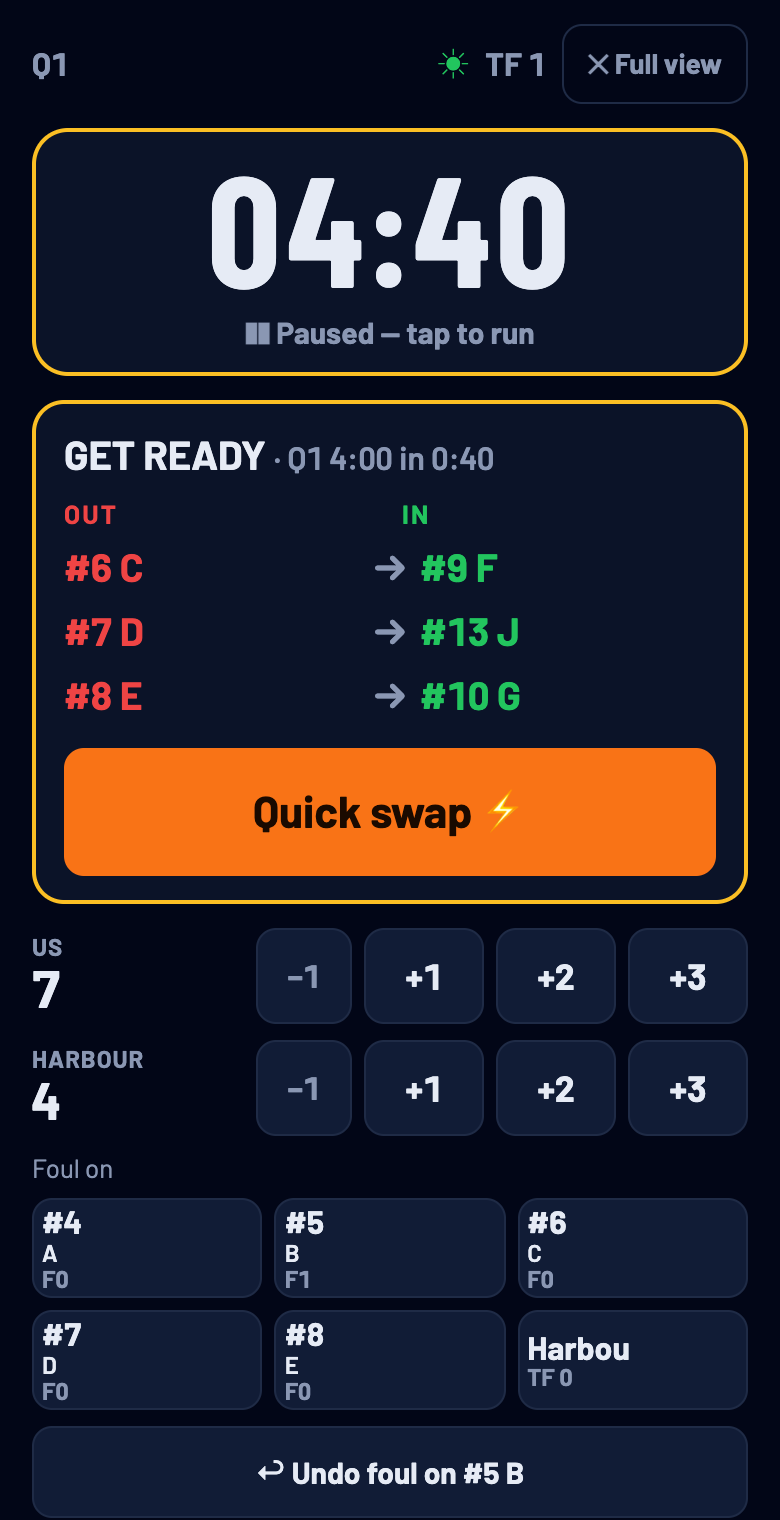
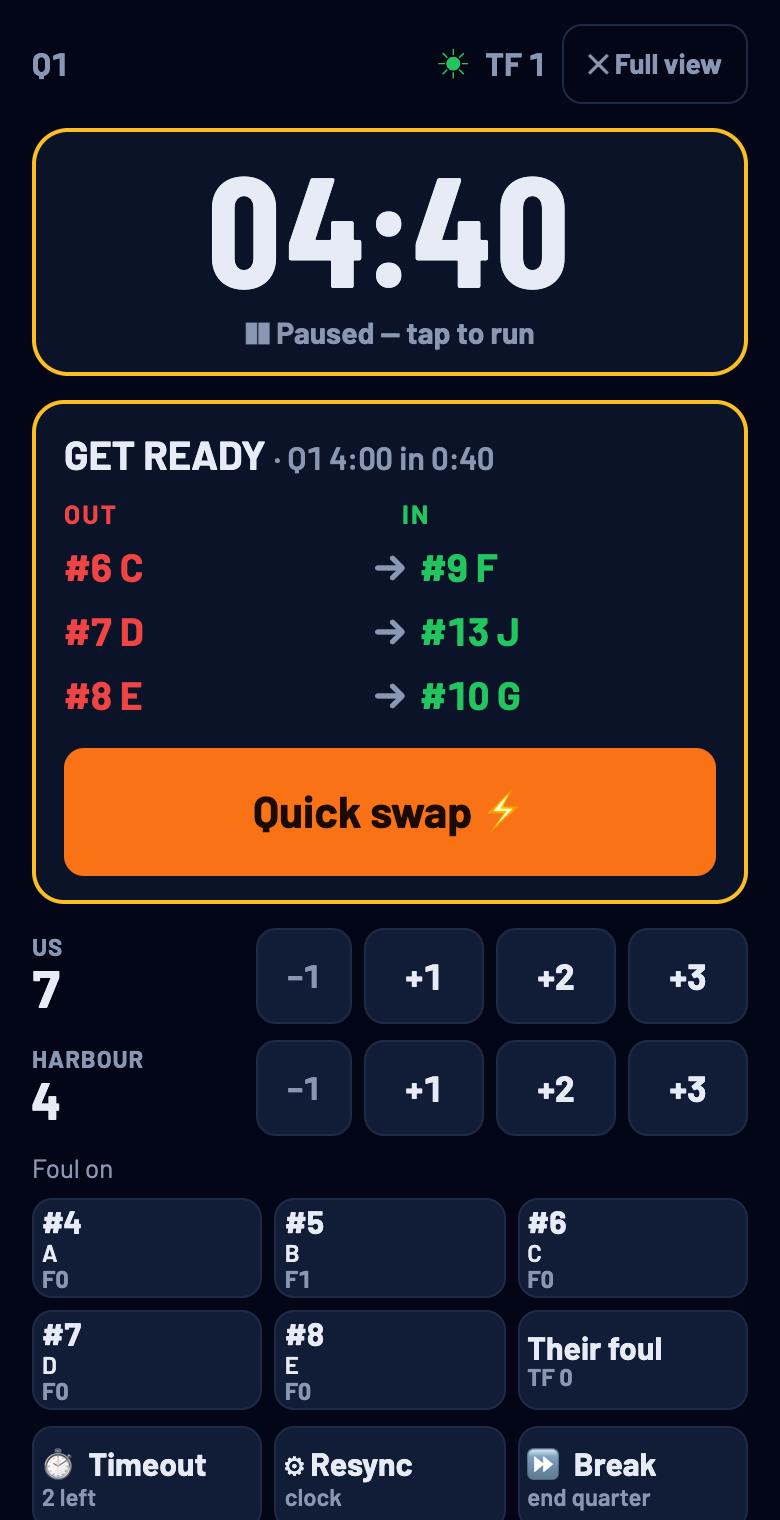
v2.19.0: match-day limit, their fouls on Live, glance timeout/resync, shift hint

Changed region(s): [[0.0308, 0.9276, 0.9846, 1.0], [0.6769, 0.8658, 0.8615, 0.8967]]

diff --git a/index.html b/index.html
@@ -212,6 +212,9 @@ table.pmu th,table.pmu td{padding:6px 5px;font-size:13px}
 .gfl>.muted{grid-column:1/-1}
 .gf{min-height:48px;display:flex;flex-direction:column;justify-content:center;gap:0;font-weight:800;font-size:16px;padding:2px 4px;line-height:1.1}
 .gf span{font-size:12px;font-weight:700;color:var(--muted)}
+.gtools{display:grid;grid-template-columns:repeat(3,1fr);gap:6px}
+.gtools .btn{min-height:52px;display:flex;flex-direction:column;justify-content:center;font-weight:800;font-size:16px;padding:2px 4px;line-height:1.15}
+.gtools .btn span{font-size:12px;font-weight:600;color:var(--muted)}
 .gf em{font-style:normal;font-size:12px;font-weight:600;max-width:100%;overflow:hidden;text-overflow:ellipsis;white-space:nowrap}
 .gf b{font-size:16px}
 .gf.warn{border-color:var(--warn)}.gf.warn span{color:var(--warn)}.gf.bad{border-color:var(--bad)}.gf.bad span{color:var(--bad)}
@@ -220,7 +223,8 @@ table.pmu th,table.pmu td{padding:6px 5px;font-size:13px}
 .whog{display:grid;grid-template-columns:repeat(3,1fr);gap:6px;margin-top:6px}.whog .btn{min-height:44px;padding:4px;font-size:14px;overflow:hidden;text-overflow:ellipsis;white-space:nowrap}
 .gdl{display:flex;flex-direction:column;gap:6px;max-height:52vh;overflow:auto}
 .gdr{display:grid;grid-template-columns:1fr 52px;gap:6px}.gdr .gdh{text-align:left;justify-content:flex-start;min-height:46px}
-.gdr .gdh[aria-pressed="true"]{border-color:var(--go)}.gdr.off .gdh{opacity:.55;text-decoration:line-through}
+.gdr .gdh[aria-pressed="true"]{border-color:var(--go)}.gdr.off .gdh{opacity:.55}.gdr .gdh s{text-decoration:none}.gdr.off .gdh s{text-decoration:line-through}
+.gdr .gso{margin-left:auto;padding-left:6px;white-space:nowrap}.gdr .gdwhy{font-size:11px;line-height:1.1;padding:0 2px}
 .htc{border:1px solid var(--line);border-radius:12px;padding:10px;margin:8px 0;background:var(--panel)}.htr{margin:4px 0;line-height:1.5}
 .gundo{min-height:46px;font-size:15px}
 .barkey{display:flex;flex-wrap:wrap;gap:4px 10px;margin-top:6px}.barkey i{display:inline-block;width:10px;height:6px;border-radius:3px;margin-right:4px;vertical-align:middle}
@@ -315,10 +319,10 @@ const TIERNAME={1:'Core / closers',2:'Main rotation',3:'Development',4:'Emerging
 /*SEED-START*/
 const SEED=[[4,'Player A',1],[5,'Player B',1],[6,'Player C',1],[7,'Player D',1],[8,'Player E',2],[9,'Player F',2],[10,'Player G',2],[11,'Player H',2],[12,'Player I',3],[13,'Player J',4],[14,'Player K',4],[15,'Player L',4]];
 const SEED_STARTERS=[4,5,6,7,8],SEED_CLOSERS=[4,5,6,7,8],SEED_BH=[4,5,8,13],SEED_OUT=[];
-const TEAM_DEFAULT={teamName:"Us",teamFull:"My Team U16"};
+const TEAM_DEFAULT={teamName:"Us",teamFull:"My Team"};
 const APP_NAME="Rotation Station",ABOUT={tip:"https://ko-fi.com/rotationstation",tipLabel:"Buy me a coffee",contact:"",site:"https://kramkroc.github.io/rotation-station/"};
 /*SEED-END*/
-const DEF_CFG={tierMins:{1:20,2:15,3:10,4:6},quarterMins:8,shiftLength:4,strongFloor:3,closerLockSeconds:240,otLengthMins:4,lockOT:true,hotBonusMode:false,hotBonusMins:3,devFloorMins:4,coldTrimMins:2,miniSubs:1,readySecs:60,onTimeSecs:45,restMaxMins:8,foulAware:'gentle',spreadLow:true,t1Floor:2,catchUp:2,haptics:'strong',flash:true,maxSubs:3,maxSubsBreaks:true,bhFloor:1,sound:'auto',...TEAM_DEFAULT};
+const DEF_CFG={tierMins:{1:20,2:15,3:10,4:6},quarterMins:8,shiftLength:4,panelMax:12,strongFloor:3,closerLockSeconds:240,otLengthMins:4,lockOT:true,hotBonusMode:false,hotBonusMins:3,devFloorMins:4,coldTrimMins:2,miniSubs:1,readySecs:60,onTimeSecs:45,restMaxMins:8,foulAware:'gentle',spreadLow:true,t1Floor:2,catchUp:2,haptics:'strong',flash:true,maxSubs:3,maxSubsBreaks:true,bhFloor:1,sound:'auto',...TEAM_DEFAULT};
 const today=()=>{const d=new Date();return String(d.getDate()).padStart(2,'0')+'/'+String(d.getMonth()+1).padStart(2,'0')+'/'+d.getFullYear()};
 const blankStat=()=>({playedSeconds:0,periodSplit:[],fouls:0,consecutiveSeconds:0,fouledOut:false});
 
@@ -457,6 +461,19 @@ function coreWarn(){
 }
 
 /* ---------- §2.3 blocks + solver (advisory) ---------- */
+// where the planned changes fall in L seconds of play: every step seconds, a stub under half a step folds into the shift before
+function shiftCuts(L,step){const cuts=[];for(let s=0;s<L;s+=step)cuts.push(s);if(cuts.length>1&&L-cuts[cuts.length-1]<step/2)cuts.pop();return cuts}
+// Setup hint: what the chosen shift means for this quarter length (the clock counts down, so changes are given as time left)
+function shiftHint(qm,sl){
+  const L=qm*60,split=x=>{const c=shiftCuts(L,x*60);return {c,parts:c.map((s0,i)=>((i+1<c.length?c[i+1]:L)-s0)/60)}};
+  const {c,parts}=split(sl),n=c.length-1,word=['no','one','two','three','four','five'][n]||String(n);
+  let t=`How often the planned changes come. With ${qm}-min quarters that's `+(n?`${word} change${n>1?'s':''} a quarter, at ${c.slice(1).map(s0=>mmssShort(L-s0)).join(', ')} left (${parts.join(' + ')} min), plus the quarter breaks.`:'changes only at the quarter breaks.');
+  const r=(L%(sl*60))/60;if(n&&r&&r<sl/2)t+=` The last ${r} min joins the shift before rather than being a ${r}-min shift of its own.`;
+  t+=n<=2?' Easy to run from the bench.':' Busier to run from the bench.';
+  const even=x=>{const q=split(x);return q.parts.every(v=>v===q.parts[0])&&q.c.length-1<=2};
+  if(!even(sl)){const b=[4,3,2].find(x=>x!==sl&&even(x));if(b)t+=` ${b} min would split the quarter evenly.`}
+  return t;
+}
 function baseBlocks(){
   const out=[],step=S.config.shiftLength*60;let abs=0;
   S.periods.forEach((L,pi)=>{
@@ -464,8 +481,7 @@ function baseBlocks(){
     if(p>4){out.push({p,s:0,e:L,dur:L,abs0:abs,abs1:abs+L,key:p+'-0'})}
     else{
       const lockAt=p===4&&S.config.closerLockSeconds>0?Math.max(0,L-S.config.closerLockSeconds):L;
-      const cuts=[];for(let s=0;s<lockAt;s+=step)cuts.push(s);
-      if(cuts.length>1&&lockAt-cuts[cuts.length-1]<step/2)cuts.pop();   // fold a stub shift into the one before
+      const cuts=shiftCuts(lockAt,step);
       if(lockAt<L)cuts.push(lockAt);
       // a coach can move a change earlier/later; the block keeps its original key so plans and pins survive the move
       const mv=S.moves||{},adj=cuts.slice();
@@ -928,7 +944,8 @@ function seasonSave(se){try{localStorage.setItem(SEASON_KEY,JSON.stringify(se))}
 function gameRecord(){
   const T=targets(),PM=plusMinus().pm,PB=pointsBy();
   return {id:S.match.id,date:S.match.date,opp:S.match.opp||'',practice:!!S.match.practice,us:S.score.us,them:S.score.them,scored:S.score.ev.length>0,blocks:S.config.shiftLength,app:APP_VERSION,
-    players:S.roster.filter(p=>p.active||played(p.id)>0).map(p=>({num:p.num,name:p.name,tier:p.tier,mins:Math.round(played(p.id)/6)/10,tgt:T[p.id]||0,fouls:st(p.id).fouls,pm:PM[p.id]||0,pts:PB[p.id]||0}))};
+    players:S.roster.filter(p=>p.active||played(p.id)>0).map(p=>({num:p.num,name:p.name,tier:p.tier,mins:Math.round(played(p.id)/6)/10,tgt:T[p.id]||0,fouls:st(p.id).fouls,pm:PM[p.id]||0,pts:PB[p.id]||0})),
+    np:S.roster.filter(p=>p.np&&!p.active&&played(p.id)===0).map(p=>({num:p.num,name:p.name,tier:p.tier}))};
 }
 function archiveGame(){const se=seasonLoad(),rec=gameRecord(),i=se.games.findIndex(g=>g.id===rec.id);if(i>=0)se.games[i]=rec;else se.games.push(rec);seasonSave(se);S.archived=true;save()}
 function removeSeasonGame(id){const se=seasonLoad();se.games=se.games.filter(g=>g.id!==id);seasonSave(se);if(id===S.match.id)S.archived=false;save();render()}
@@ -993,7 +1010,9 @@ function applySetup(text){
 }
 function seasonTable(){
   const se=seasonLoad(),g=se.games;if(!g.length)return null;
-  const byNum={};g.forEach((gm,gi)=>gm.players.forEach(p=>{const r=byNum[p.num]||(byNum[p.num]={num:p.num,name:p.name,tier:p.tier,cells:Array(g.length).fill(null),tot:0,tgt:0,gp:0,dt:0,gt:0,pm:0,pmg:0,pts:0});r.name=p.name;if(typeof p.pm==='number'){r.pm+=p.pm;r.pmg++}r.pts+=+p.pts||0;r.tier=p.tier;r.cells[gi]=p.mins;r.tot+=p.mins;r.tgt+=p.tgt||0;if(p.mins>0)r.gp++;
+  const byNum={},row=p=>byNum[p.num]||(byNum[p.num]={num:p.num,name:p.name,tier:p.tier,cells:Array(g.length).fill(null),npc:Array(g.length).fill(false),np:0,tot:0,tgt:0,gp:0,dt:0,gt:0,pm:0,pmg:0,pts:0});
+  g.forEach((gm,gi)=>(gm.np||[]).forEach(p=>{const r=row(p);r.npc[gi]=true;r.np++}));
+  g.forEach((gm,gi)=>gm.players.forEach(p=>{const r=row(p);r.name=p.name;if(typeof p.pm==='number'){r.pm+=p.pm;r.pmg++}r.pts+=+p.pts||0;r.tier=p.tier;r.cells[gi]=p.mins;r.tot+=p.mins;r.tgt+=p.tgt||0;if(p.mins>0)r.gp++;
     if(p.tgt>0){r.dt+=p.mins-p.tgt;r.gt++}}));   // fairness: minutes against his target, only in games that had one
   const rows=Object.values(byNum).sort((a,b)=>a.tier-b.tier||b.tot-a.tot);
   rows.forEach(r=>{const avg=r.gt?r.dt/r.gt:0;r.fair=!r.gt?'':avg< -2.5?'way':avg< -1?'short':avg>1?'over':'ok'});
@@ -1002,8 +1021,8 @@ function seasonTable(){
 }
 function seasonCsv(){
   const t=seasonTable();if(!t)return '';
-  let out='Jersey,Name,Tier,'+t.games.map(x=>'"'+x.date+(x.opp?' vs '+x.opp:'')+'"').join(',')+',Total_Mins,Games,Avg_Mins,Target_Total,Vs_Target\n';
-  t.rows.forEach(r=>{out+=[r.num,'"'+r.name.replace(/"/g,'""')+'"',r.tier,...r.cells.map(c=>c==null?'':c),m1(r.tot),r.gp,r.gp?m1(r.tot/r.gp):'',m1(r.tgt),r.gt?m1(r.dt):''].join(',')+'\n'});
+  let out='Jersey,Name,Tier,'+t.games.map(x=>'"'+x.date+(x.opp?' vs '+x.opp:'')+'"').join(',')+',Total_Mins,Games,Avg_Mins,Target_Total,Vs_Target,Not_Picked\n';
+  t.rows.forEach(r=>{out+=[r.num,'"'+r.name.replace(/"/g,'""')+'"',r.tier,...r.cells.map((c,gi)=>c==null?(r.npc[gi]?'NP':''):c),m1(r.tot),r.gp,r.gp?m1(r.tot/r.gp):'',m1(r.tgt),r.gt?m1(r.dt):'',r.np].join(',')+'\n'});
   return out;
 }
 
@@ -1060,7 +1079,8 @@ function removePlayer(id){
 function undoFoul(id){const u=S.undo[S.undo.length-1];if(u&&u.type==='foul'&&u.id===id&&u.delta>0)undo();else addFoul(id,-1);toast('Foul removed — '+tag(id)+' now F:'+st(id).fouls)}
 const tfKey=()=>Math.min(S.period,4);   // FIBA: overtime fouls count with Q4
 const tfUs=()=>S.tf[tfKey()]||0,tfThem=()=>S.tfThem[tfKey()]||0;
-function addTeamFoulThem(d){const k=tfKey();S.tfThem[k]=Math.max(0,(S.tfThem[k]||0)+d);log(clockLabel()+' — '+oppName()+' team fouls '+S.tfThem[k]);save();render()}
+function addTeamFoulThem(d){const k=tfKey(),was=S.tfThem[k]||0;S.tfThem[k]=Math.max(0,was+d);if(S.tfThem[k]===was)return;S.undo.push({type:'tfthem',k,d:S.tfThem[k]-was});log(clockLabel()+' — '+oppName()+' team fouls '+S.tfThem[k]);save();render();
+  const n=S.tfThem[k];toast(oppName()+' team fouls '+n+(d<0?'':n===4?' · next one = our free throws':n>=5?' · in the penalty, attack the rim':''))}
 const foulBand=id=>{const s=st(id);return s.fouledOut?9:s.fouls>=4?4:foulRisk(id)?2:0};
 function addFoul(id,delta){
   const s=st(id);if(delta<0&&s.fouls===0)return;
@@ -1089,6 +1109,7 @@ function undoLabel(u){
   if(u.type==='score')return (u.side==='us'?tn():oppName())+' +'+u.pts;
   if(u.type==='timeout')return (u.side==='us'?'our':oppName()+'’s')+' timeout';
   if(u.type==='mins')return 'minutes fix on '+nm(u.id);
+  if(u.type==='tfthem')return oppName()+' team foul'+(u.d<0?' removal':'');
   if(u.type==='scorefix')return (u.side==='us'?tn():oppName())+' −1';
   return 'last action';
 }
@@ -1100,6 +1121,7 @@ function undo(){
   if(u.type==='single'){S.onCourtIds=u.prevOn;st(u.inId).consecutiveSeconds=u.prevConsec;log(clockLabel()+' — UNDO: '+tag(u.inId)+' IN'+(u.outId?' for '+tag(u.outId):'')+' retracted')}
   else if(u.type==='mass'){S.onCourtIds=u.prevOn;Object.entries(u.prevConsec).forEach(([id,c])=>st(id).consecutiveSeconds=c);log(clockLabel()+' — UNDO: quick swap retracted (IN '+u.ins.map(id=>'#'+P(id).num).join(' ')+' • OUT '+u.outs.map(id=>'#'+P(id).num).join(' ')+' reversed)')}
   else if(u.type==='score'){S.score[u.side]-=u.pts;S.score.ev.pop();log(clockLabel()+' — UNDO: '+(u.side==='us'?tn():oppName())+' +'+u.pts+' removed ('+S.score.us+'–'+S.score.them+')')}
+  else if(u.type==='tfthem'){S.tfThem[u.k]=Math.max(0,(S.tfThem[u.k]||0)-u.d);log(clockLabel()+' — UNDO: '+oppName()+' team fouls '+S.tfThem[u.k])}
   else if(u.type==='timeout'){S.tos.pop();log(clockLabel()+' — UNDO: timeout removed')}
   else if(u.type==='scorefix'){const ev=S.score.ev;if(u.prev.pts>1&&ev[u.i]&&ev[u.i].n===u.prev.n)ev[u.i].pts=u.prev.pts;else ev.splice(u.i,0,u.prev);S.score[u.side]++;log(clockLabel()+' — UNDO: score fix ('+S.score.us+'–'+S.score.them+')')}
   else if(u.type==='mins'){const s=st(u.id);s.playedSeconds=u.before;s.periodSplit=u.split;log(clockLabel()+' — UNDO: minutes fix on '+tag(u.id)+' (back to '+mmss(u.before)+')')}
@@ -1108,11 +1130,16 @@ function undo(){
   toast('Undone: '+what+(u.type==='mass'?' — all '+u.ins.length+' players back':''));
 }
 function setActive(id,on){
-  const p=P(id);if(p.active===on)return;p.active=on;
+  const p=P(id);if(p.active===on)return;p.active=on;p.np=!on&&!S.started&&panelMax()>0&&S.roster.length>panelMax();
   if(!on){S.onCourtIds=S.onCourtIds.filter(x=>x!==id);p.hot=false;p.hotUntil=null;p.cold=false;delete S.adj['hot:'+id];delete S.adj['cold:'+id]}
   if(S.started)log(clockLabel()+' — RE-PLAN: '+tag(id)+(on?' added (late arrival)':' unavailable / injured')+', minutes redistributed','rp');
   replan();save();render();
 }
+
+// match-day limit: a squad bigger than the panel leaves some out. "Not picked" is kept apart from "not here" so the season shows who sat out
+const panelMax=()=>+S.config.panelMax||0,panelOver=()=>panelMax()>0&&availList().length>panelMax();
+function setNotPicked(id,on){const p=P(id);if(!p||p.active||S.started)return;p.np=!!on;save();render()}
+function satOut(){const n={};seasonLoad().games.forEach(g=>(g.np||[]).forEach(x=>{n[x.num]=(n[x.num]||0)+1}));return n}
 
 /* ---------- §2.5 hot / cold ---------- */
 function hotDebits(id){
@@ -1187,6 +1214,7 @@ function waText(){
     const qs=S.periods.map((_,i)=>mt((r.s.periodSplit[i]||0)/60)).join('/');
     t+='• #'+r.p.num+' '+r.p.name+' (T'+r.p.tier+'): '+m1(r.a)+'m / tgt '+m1(r.T)+'m | Qs ['+qs+'] | F:'+r.s.fouls+(r.s.fouledOut?' (OUT)':'')+'\n';
   });
+  {const np=S.roster.filter(p=>p.np&&!p.active&&played(p.id)===0);if(np.length)t+='🪑 Not picked: '+np.map(p=>'#'+p.num+' '+p.name).join(', ')+'\n'}
   const tfq=S.periods.slice(0,4).map((_,i)=>S.tf[i+1]||0);if(tfq.some(x=>x))t+='🟨 Team fouls by quarter: '+tfq.join('/')+(S.periods.length>4?' (OT counts with Q4)':'')+'\n';
   return t+'------------------------------------\nLogged via '+APP_NAME;
 }
@@ -1270,7 +1298,7 @@ function viewGlance(){
   }
   return `<div class="glance">
     <div class="gtop"><span>${qLabel(S.period)}</span><span class="sp"></span>${S.started&&!S.finished?(ui.awake!=='none'?'<span class="trk ok">☀</span>':'<button class="chip warn" data-act="sheet:awake">⚠ May sleep</button>'):''}<span class="${tfUs()>=5?'trk way':tfUs()===4?'trk short':''}">TF ${tfUs()}</span><button class="btn sm ghost" data-act="glance:0" aria-label="Back to the full screen">✕ Full view</button></div>
-    <button class="gclock ${running?'run':'stop'}" data-act="clock" aria-label="Game clock"><div class="digits">${mmss(S.clockSeconds)}</div><div class="state">${st0}</div></button>
+    <button class="gclock ${running?'run':'stop'}" data-act="clock" data-lp="resync" aria-label="Game clock"><div class="digits">${mmss(S.clockSeconds)}</div><div class="state">${st0}</div></button>
     ${(()=>{const r=S.started&&!S.finished?runAgainst():null;return r?`<div class="gwarn">${esc(oppName())} on a ${r.pts}–0 run (${r.n} straight). Timeout at the next dead ball? <button class="btn sm" data-act="to:us" ${toLeft('us')>0?'':'disabled'}>⏱ Call timeout (${toLeft('us')} left)</button></div>`:''})()}
     ${fd?`<div class="gwarn">${esc(shortName(P(fd.id)))} is on 4 fouls${fd.rep?` — <button class="btn sm" data-act="fdsub:${fd.id}:${fd.rep}">Sub ${esc(shortName(P(fd.rep)))} in</button>`:''}</div>`:''}
     ${next}
@@ -1278,7 +1306,8 @@ function viewGlance(){
       <div class="gsrow"><span class="gsl"><span>${esc(tn())}</span><b>${S.score.us}</b></span><button class="btn gm" data-act="scm:us" ${S.score.us?'':'disabled'} aria-label="${esc(tn())} minus 1">−1</button><button class="btn" data-act="gsc:us:1">+1</button><button class="btn" data-act="gsc:us:2">+2</button><button class="btn" data-act="gsc:us:3">+3</button></div>
       <div class="gsrow"><span class="gsl"><span>${esc(oppName())}</span><b>${S.score.them}</b></span><button class="btn gm" data-act="scm:them" ${S.score.them?'':'disabled'} aria-label="${esc(oppName())} minus 1">−1</button><button class="btn" data-act="gsc:them:1">+1</button><button class="btn" data-act="gsc:them:2">+2</button><button class="btn" data-act="gsc:them:3">+3</button></div>
       ${scorerStrip()}
-      <div class="gfl"><span class="muted small">Foul on</span>${S.onCourtIds.map(id=>{const f=st(id).fouls;return `<button class="btn gf ${f>=4?'bad':f>=3?'warn':''}" data-act="foul:${id}" data-lp="foulm:${id}"><b>#${P(id).num}</b><em>${esc(String(P(id).name).split(/\s+/).slice(-1)[0])}</em><span>F${f}</span></button>`}).join('')}<button class="btn gf" data-act="tft:1">${esc(oppName().slice(0,6))}<span>TF ${tfThem()}</span></button></div>
+      <div class="gfl"><span class="muted small">Foul on</span>${S.onCourtIds.map(id=>{const f=st(id).fouls;return `<button class="btn gf ${f>=4?'bad':f>=3?'warn':''}" data-act="foul:${id}" data-lp="foulm:${id}"><b>#${P(id).num}</b><em>${esc(String(P(id).name).split(/\s+/).slice(-1)[0])}</em><span>F${f}</span></button>`}).join('')}<button class="btn gf" data-act="tft:1" data-lp="tfm:1" aria-label="${esc(oppName())} foul, hold to take one off">Their foul<span>TF ${tfThem()}</span></button></div>
+      <div class="gtools"><button class="btn" data-act="sheet:to">⏱ Timeout<span>${toLeft('us')} left</span></button><button class="btn" data-act="resync">⚙ Resync<span>clock</span></button><button class="btn" data-act="break">⏩ Break<span>end quarter</span></button></div>
       <button class="btn gundo" data-act="undo" ${S.undo.length?'':'disabled'}>↩ Undo${S.undo.length?' '+esc(undoLabel()):''}</button></div>`:''}
     ${S.started&&!S.finished?'':'<button class="btn ghost gexit" data-act="glance:0">Back to the full screen</button>'}</div>`;
 }
@@ -1334,6 +1363,7 @@ function viewLive(){
   const run=S.started&&!S.finished?runAgainst():null,tl=toLeft('us'),l2=toLeftLast2('us');
   const scoreBar=`<div class="scorebar">
     <button class="sb" data-act="sheet:score" aria-label="Score"><span class="tm">${esc(tn())}</span><b>${S.score.us}</b><span class="dash">–</span><b>${S.score.them}</b><span class="tm">${esc(oppName())}</span></button>
+    <button class="btn tobtn" data-act="tft:1" data-lp="tfm:1" ${S.started&&!S.finished?'':'disabled'} aria-label="${esc(oppName())} foul, hold to take one off">Their foul <span class="muted small">TF ${tfThem()} · hold −1</span></button>
     <button class="btn tobtn" data-act="sheet:to" ${S.started&&!S.finished?'':'disabled'}>⏱ Timeout <span class="muted small">${tl} left${l2!=null?' · '+Math.min(tl,l2)+' in last 2:00':''}</span></button></div>`;
   return hdr+scoreBar+scorerStrip()+`
   ${ui.nudge===S.period&&!S.clockRunning&&!S.finished&&S.clockSeconds>=len()-0.5?`<div class="banner pause">⏱ The clock hasn't started this ${S.started?'quarter':'game'}, but you're logging scores or fouls. Start it now, then Resync to the table clock. <button class="btn sm" data-act="clock">▶ Start clock</button> <button class="btn sm ghost" data-act="resync">Resync</button></div>`:''}
@@ -1453,21 +1483,22 @@ function viewSetup(){
   return `<button class="btn pri" style="width:100%;margin:6px 0 10px" data-act="sheet:gameday">⚡ Game-day setup — who's here, starters, opponent</button>
   ${sec('match','Match',`${esc(tn())} v ${esc(S.match.opp||'?')} · ${esc(S.match.date||'')} · ${S.match.practice?'Practice':'Game'}`,`<div class="fields">
     <div class="field"><label for="tname">Our team — short name</label><input id="tname" class="inp" type="text" data-chg="cfgtxt:teamName" value="${esc(S.config.teamName||'')}" placeholder="e.g. Tigers"><span class="muted small">On the score bar and glance screen, where space is tight.</span></div>
-    <div class="field"><label for="tfull">Our team — full name</label><input id="tfull" class="inp" type="text" data-chg="cfgtxt:teamFull" value="${esc(S.config.teamFull||'')}" placeholder="e.g. Riverside Tigers U16"><span class="muted small">On printouts and WhatsApp summaries. Leave blank to use the short name.</span></div>
+    <div class="field"><label for="tfull">Our team — full name</label><input id="tfull" class="inp" type="text" data-chg="cfgtxt:teamFull" value="${esc(S.config.teamFull||'')}" placeholder="e.g. Riverside Tigers"><span class="muted small">On printouts and WhatsApp summaries. Leave blank to use the short name.</span></div>
     <div class="field"><label for="opp">Opponent</label><input id="opp" type="text" data-chg="opp" value="${esc(S.match.opp)}" placeholder="e.g. their club name"><span class="muted small">On the score bar, run alerts and summaries.</span></div>
     <div class="field"><label for="mdate">Date</label><input id="mdate" type="text" data-chg="date" value="${esc(S.match.date)}"><span class="muted small">On printouts and in the season table.</span></div>
     <div class="field"><label>Match type</label><div class="seg"><button data-act="practice:0" aria-pressed="${!S.match.practice}">Game</button><button data-act="practice:1" aria-pressed="${!!S.match.practice}">Practice</button></div><span class="muted small">Practice games aren't saved to the season. Starts as Game for every new match.</span></div>
   </div>`)}
-  ${sec('squad','Squad &amp; tiers',`${availList().length} here · starters ${nStart}/5 · closers ${nClose}/5`,`  <div class="status"><span class="chip ${nStart===5?'go':'warn'}">Starters ${nStart}/5</span><span class="chip ${nClose===5?'go':'warn'}">Closers ${nClose}/5</span><span class="chip acc">${availList().length} active</span></div>
+  ${sec('squad','Squad &amp; tiers',`${availList().length} here · starters ${nStart}/5 · closers ${nClose}/5`,`  <div class="status"><span class="chip ${nStart===5?'go':'warn'}">Starters ${nStart}/5</span><span class="chip ${nClose===5?'go':'warn'}">Closers ${nClose}/5</span><span class="chip ${panelOver()?'warn':'acc'}">${availList().length} active${panelOver()?' · limit '+panelMax():''}</span></div>
   <div class="tbl" style="margin-top:8px"><table><thead><tr><th>#</th><th>Name</th><th>Tier</th><th>Here</th><th>Start</th><th>Close</th><th>Ball</th><th>Target</th><th></th></tr></thead><tbody>${rows}</tbody></table></div>
   <div style="margin-top:8px"><button class="btn" data-act="addplayer">+ Add player</button></div>
+  <div class="field" style="margin-top:10px"><label>Match-day limit</label>${seg('panelMax',[0,10,12,15],c.panelMax,o=>o?String(o):'Off')}<span class="muted small">Most leagues allow 12 on the scoresheet. With a bigger squad, the game-day list counts who's picked, warns if it's too many, and records who sat out so you can rotate it fairly.</span></div>
   <p class="note">Set the rough minutes per tier below; the app rounds each target to the half-minute. ✕ removes a player from the squad for good (his season minutes stay in the season table). For one game, use "Out" instead. Marking someone "Out" mid-game redistributes his remaining minutes and keeps what he has already played.</p>
 `)}
   ${sec('mins','Game &amp; minutes',`4×${c.quarterMins} min · ${c.shiftLength}-min shifts · ${[1,2,3,4].map(t=>mt(c.tierMins[t])).join(' / ')}`,`
   <h3>Game length</h3><div class="fields">
-    <div class="field"><label>Quarter length</label>${seg('quarterMins',[6,7,8,10],c.quarterMins,o=>o+' min')}<span class="muted small">${S.started?'Locked once the game has started.':'Basketball NI U16 plays 4 × 8.'}</span></div>
-    <div class="field"><label>Overtime length</label>${seg('otLengthMins',[3,4,5],c.otLengthMins,o=>o+' min')}<span class="muted small">Basketball NI U16 (FIBA) overtime is 4 minutes.</span></div>
-    <div class="field"><label>Shift block</label>${seg('shiftLength',[4,3,2],c.shiftLength,o=>o+' min')}<span class="muted small">How often the planned changes come. 4 min = two changes a quarter, easy to run from the bench.</span></div>
+    <div class="field"><label>Quarter length</label>${seg('quarterMins',[6,7,8,10],c.quarterMins,o=>o+' min')}<span class="muted small">${S.started?'Locked once the game has started.':'Most youth leagues play 4 × 8. Check yours.'}</span></div>
+    <div class="field"><label>Overtime length</label>${seg('otLengthMins',[3,4,5],c.otLengthMins,o=>o+' min')}<span class="muted small">Many youth leagues play 4 minutes. Check yours.</span></div>
+    <div class="field"><label>Shift block</label>${seg('shiftLength',[4,3,2],c.shiftLength,o=>o+' min')}<span class="muted small">${shiftHint(c.quarterMins,c.shiftLength)}</span></div>
   </div>
   <div class="hline"><h3>Minutes per tier</h3><button class="btn ghost sm" data-act="tmreset" aria-label="Reset tier minutes to 20, 15, 10, 6">↺ 20/15/10/6</button></div>
   <div class="tiers">${[1,2,3,4].map(t=>{const ps=availList().filter(p=>p.tier===t),ex=ps[0];return `<div class="trow"><span class="tier t${t}">T${t}</span><span class="tn">${TIERNAME[t]}<br><span class="muted small">${ps.length} player${ps.length===1?'':'s'}${ex?' · target '+m1(T[ex.id]||0)+'m each':''}</span></span>
@@ -1534,10 +1565,10 @@ function viewLogs(){
     const head=`<div class="hline"><h2>Season</h2>${S.started&&!S.archived&&!S.match.practice?'<button class="btn sm" data-act="archive">Save this game</button>':''}<button class="btn sm ghost" data-act="sheet:import">+ Past game</button>${t?'<button class="btn sm ghost" data-act="sheet:season">Manage</button>':''}</div>`;
     if(!t)return head+'<div style="margin-top:8px"><button class="btn ghost" data-act="sheet:restore">Restore from a backup</button></div><p class="note">Games are saved here at full time, so you can see minutes across the season. Add earlier games from their CSV or WhatsApp summary.</p>';
     const behind=t.rows.filter(r=>r.fair==='short'||r.fair==='way');
-    return head+`<p class="muted small">${t.games.length} game${t.games.length===1?'':'s'}${t.w+t.l?' · won '+t.w+', lost '+t.l:''} · minutes per game</p>
+    return head+`<p class="muted small">${t.games.length} game${t.games.length===1?'':'s'}${t.w+t.l?' · won '+t.w+', lost '+t.l:''} · minutes per game${t.rows.some(r=>r.np)?' · NP = not picked':''}</p>
     <div class="fair">${behind.length?'<b>Behind on minutes:</b> '+behind.map(r=>`<span class="trk ${r.fair}">#${r.num} ${esc(String(r.name).split(/\s+/).slice(-1)[0])} −${m1(-r.dt)}m over ${r.gt} game${r.gt===1?'':'s'}</span>`).join(' · ')+'<br><span class="muted small">Worth a word with him, or a bigger tier target next game.</span>':(t.rows.some(r=>r.gt)?'<span class="trk ok">Everyone is within a minute a game of his target.</span>':'')}</div>
     <div class="tbl"><table class="ssn"><thead><tr><th>Player</th>${t.games.map(g=>`<th>${esc(String(g.date).slice(0,5))}<br><span class="muted small">${esc((g.opp||'').slice(0,8))}</span></th>`).join('')}<th>Total</th><th>Avg</th><th>vs target</th><th>+/−</th><th>Pts</th></tr></thead>
-    <tbody>${t.rows.map(r=>`<tr><td><b>#${r.num}</b> ${esc(r.name)} <span class="tier t${r.tier}">T${r.tier}</span></td>${r.cells.map(c=>`<td>${c==null?'<span class="muted">—</span>':m1(c)}</td>`).join('')}<td><b>${m1(r.tot)}</b></td><td>${r.gp?m1(r.tot/r.gp):'—'}</td><td class="trk ${r.fair}">${r.gt?(r.dt>=0?'+':'−')+m1(Math.abs(r.dt)):'—'}</td><td>${r.pmg?(r.pm>0?'+':r.pm<0?'−':'')+Math.abs(r.pm):'—'}</td><td>${r.pts||'—'}</td></tr>`).join('')}</tbody></table></div>
+    <tbody>${t.rows.map(r=>`<tr><td><b>#${r.num}</b> ${esc(r.name)} <span class="tier t${r.tier}">T${r.tier}</span></td>${r.cells.map((c,gi)=>`<td>${c==null?`<span class="muted">${r.npc[gi]?'NP':'—'}</span>`:m1(c)}</td>`).join('')}<td><b>${m1(r.tot)}</b></td><td>${r.gp?m1(r.tot/r.gp):'—'}</td><td class="trk ${r.fair}">${r.gt?(r.dt>=0?'+':'−')+m1(Math.abs(r.dt)):'—'}</td><td>${r.pmg?(r.pm>0?'+':r.pm<0?'−':'')+Math.abs(r.pm):'—'}</td><td>${r.pts||'—'}</td></tr>`).join('')}</tbody></table></div>
     <div class="grid2" style="margin-top:8px"><button class="btn" data-act="copy:seasoncsv">Copy season CSV</button><button class="btn" data-act="copy:backup">💾 Copy season backup</button></div>
     <textarea id="seasoncsv" readonly style="position:absolute;left:-9999px;width:1px;height:1px">${esc(seasonCsv())}</textarea>
     <textarea id="backup" readonly style="position:absolute;left:-9999px;width:1px;height:1px">${esc(backupText())}</textarea>
@@ -1658,7 +1689,7 @@ function renderSheet(){
     ${ABOUT.tip?`<p><a class="btn pri" style="display:flex;align-items:center;justify-content:center;gap:6px;text-decoration:none" href="${esc(ABOUT.tip)}" target="_blank" rel="noopener">☕ ${esc(ABOUT.tipLabel||'Buy me a coffee')}</a></p><p class="muted small">Free to use. Tips are optional and help keep it going.</p>`:''}
     ${ABOUT.contact?`<p class="small">Feedback or a bug? <a href="${esc(ABOUT.contact)}" target="_blank" rel="noopener">Get in touch</a> — a debug log (Logs tab) helps a lot.</p>`:''}
     ${ABOUT.site?`<p class="small"><a href="${esc(ABOUT.site)}" target="_blank" rel="noopener">Project page &amp; source</a></p>`:''}
-    <p class="muted small">Free software under the MIT licence. Screen-on fallback uses NoSleep.js (MIT). Rules defaults follow Basketball NI / FIBA youth play; check your own league's rules.</p>
+    <p class="muted small">Free software under the MIT licence. Screen-on fallback uses NoSleep.js (MIT). Rule defaults (quarters, team fouls, timeouts) follow common FIBA youth play; check your own league's rules.</p>
     <div class="stack"><button class="btn ghost" data-act="close">Close</button></div>`;
   }else if(ui.sheet==='setupin'){
     h=S.started?`<h2>Paste a setup</h2><p>A setup replaces the squad, so it can’t be loaded during a game. Finish or reset this game first (Setup → Reset → New match).</p><div class="stack"><button class="btn ghost" data-act="close">Close</button></div>`
@@ -1674,14 +1705,15 @@ function renderSheet(){
     <textarea id="rsText" placeholder="PUMAS-BACKUP-1:…" style="min-height:120px"></textarea>
     <div class="stack" style="margin-top:8px"><button class="btn pri" data-act="rsgo:0">Add the games</button><button class="btn" data-act="rsgo:1" ${S.started?'disabled':''}>Add the games + restore squad &amp; settings${S.started?' (after this game)':''}</button><button class="btn ghost" data-act="close">Cancel</button></div>`;
   }else if(ui.sheet==='gameday'){
-    const rows=S.roster.slice().sort((a,b)=>a.tier-b.tier||a.num-b.num),nS=S.roster.filter(p=>p.starter&&p.active).length,nA=availList().length;
+    const rows=S.roster.slice().sort((a,b)=>a.tier-b.tier||a.num-b.num),nS=S.roster.filter(p=>p.starter&&p.active).length,nA=availList().length,mx=panelMax(),over=panelOver(),so=satOut();
     h=`<h2>Game-day setup</h2>
     <div class="grid2"><input class="inp" type="text" data-chg="opp" value="${esc(S.match.opp)}" placeholder="Opponent"><input class="inp" type="text" data-chg="date" value="${esc(S.match.date)}"></div>
     <div class="seg" style="margin-top:8px"><button data-act="practice:0" aria-pressed="${!S.match.practice}">Game</button><button data-act="practice:1" aria-pressed="${!!S.match.practice}">Practice</button></div>
-    <p class="small" style="margin:10px 0 4px"><b>Who's here?</b> Tap to mark in or out · <b>S</b> = starter <span class="chip ${nS===5?'go':'warn'}">Starters ${nS}/5</span> <span class="chip acc">${nA} here</span></p>
-    <div class="gdl">${rows.map(p=>`<div class="gdr ${p.active?'':'off'}"><button class="btn gdh" data-act="gdhere:${p.id}" aria-pressed="${p.active}">${p.active?'✓':'✕'} <b>#${p.num}</b> ${esc(p.name)} <span class="tier t${p.tier}">T${p.tier}</span></button><button class="tog c" data-act="gdstart:${p.id}" aria-pressed="${!!p.starter&&p.active}" ${p.active?'':'disabled'}>S</button></div>`).join('')}</div>
+    <p class="small" style="margin:10px 0 4px"><b>Who's here?</b> Tap to mark in or out · <b>S</b> = starter <span class="chip ${nS===5?'go':'warn'}">Starters ${nS}/5</span> <span class="chip ${over?'warn':'acc'}">${mx&&S.roster.length>mx?`${nA} of ${S.roster.length} picked${over?' · limit '+mx:''}`:nA+' here'}</span></p>
+    ${over?`<p class="note">Only ${mx} can play (Setup → Squad). Mark ${nA-mx} as not picked. “Sat out” counts this season’s games each player wasn’t picked.</p>`:''}
+    <div class="gdl">${rows.map(p=>`<div class="gdr ${p.active?'':'off'}"><button class="btn gdh" data-act="gdhere:${p.id}" aria-pressed="${p.active}">${p.active?'✓':'✕'} <b>#${p.num}</b> <s>${esc(p.name)}</s> <span class="tier t${p.tier}">T${p.tier}</span>${so[p.num]?`<span class="muted small gso">sat out ${so[p.num]}</span>`:''}</button>${p.active||S.started?`<button class="tog c" data-act="gdstart:${p.id}" aria-pressed="${!!p.starter&&p.active}" ${p.active?'':'disabled'}>S</button>`:`<button class="tog c gdwhy" data-act="gdnp:${p.id}" aria-label="${p.np?'Not picked, tap for not here':'Not here, tap for not picked'}">${p.np?'Not<br>picked':'Not<br>here'}</button>`}</div>`).join('')}</div>
     ${S.started?'<p class="note">The game has started: marking someone out now counts as an injury (his minutes so far are kept).</p>':''}
-    <button class="btn pri" style="width:100%;margin-top:10px" data-act="close">Done${nS===5||S.started?'':' (pick 5 starters)'}</button>`;
+    <button class="btn pri" style="width:100%;margin-top:10px" data-act="close">Done${nS===5||S.started?'':' (pick 5 starters)'}${over?` · ${nA} picked, limit ${mx}`:''}</button>`;
   }else if(ui.sheet==='delp'){
     const p=P(ui.sheetId);
     h=p?`<h2>Remove #${p.num} ${esc(p.name)}?</h2><p class="muted">He comes off the squad list for good. His minutes from past games stay in the season table. If he's only missing one game, mark him <b>Out</b> instead.</p>
@@ -1705,7 +1737,7 @@ function resync(delta,abs){
 }
 
 /* ---------- debug trace: every engine action + what the app believed afterwards ---------- */
-const APP_VERSION='2.18.1 · 2026-10-24';
+const APP_VERSION='2.19.0 · 2026-10-25';
 let dbgDepth=0;
 function dbgInit(){S.debug={app:APP_VERSION,created:new Date().toISOString(),start:{config:JSON.parse(JSON.stringify(S.config)),roster:JSON.parse(JSON.stringify(S.roster)),closersIds:S.closersIds.slice(),periods:S.periods.slice()},ev:[]}}
 const ids2n=a=>(a||[]).map(id=>{const p=P(id);return p?p.num:id});
@@ -1736,7 +1768,7 @@ function traced(name,fn){return function(...args){
 doSub=traced('doSub',doSub);quickSwap=traced('quickSwap',quickSwap);skipPlanned=traced('skipPlanned',skipPlanned);
 addFoul=traced('addFoul',addFoul);undoFoul=traced('undoFoul',undoFoul);undo=traced('undo',undo);
 startClock=traced('startClock',startClock);pauseClock=traced('pauseClock',pauseClock);resync=traced('resync',resync);
-setActive=traced('setActive',setActive);setHot=traced('setHot',setHot);confirmHot=traced('confirmHot',confirmHot);setCold=traced('setCold',setCold);
+setActive=traced('setActive',setActive);setNotPicked=traced('setNotPicked',setNotPicked);setHot=traced('setHot',setHot);confirmHot=traced('confirmHot',confirmHot);setCold=traced('setCold',setCold);
 startNextPeriod=traced('startNextPeriod',startNextPeriod);pinBlock=traced('pinBlock',pinBlock);addScore=traced('addScore',addScore);callTimeout=traced('callTimeout',callTimeout);importGame=traced('importGame',importGame);unpinBlock=traced('unpinBlock',unpinBlock);moveBoundary=traced('moveBoundary',moveBoundary);adjMins=traced('adjMins',adjMins);addTeamFoulThem=traced('addTeamFoulThem',addTeamFoulThem);scoreMinus=traced('scoreMinus',scoreMinus);setScorer=traced('setScorer',setScorer);addOT=traced('addOT',addOT);endPeriodEarly=traced('endPeriodEarly',endPeriodEarly);fullTime=traced('fullTime',fullTime);
 // Compact trace (pumas-debug-2): each event keeps only what changed since the one before, then the whole thing is
 // gzipped and base64'd so a full game fits a phone clipboard / chat paste. Long traces are split into parts.
@@ -1825,6 +1857,7 @@ function act(a,e){
     case 'askdel':ui.sheet='delp';ui.sheetId=id;renderSheet();break;
     case 'rsgo':{const r=restoreBackup(($('#rsText')||{}).value,id==='1');if(!r){toast('That isn’t a backup from this app — copy it again from Logs → Season');break}ui.sheet=null;render();toast('Backup restored · '+r.added+' game'+(r.added===1?'':'s')+' added'+(r.squad?' · squad & settings restored':''));break}
     case 'gdhere':{const p=P(id);if(p){setActive(id,!p.active);if(!p.active)p.starter=false;ui.sheet='gameday';render()}break}
+    case 'gdnp':{const p=P(id);if(p){setNotPicked(id,!p.np);ui.sheet='gameday';render()}break}
     case 'gdstart':{const p=P(id);if(p){p.starter=!p.starter;if(!S.started)replan();save();render()}break}
     case 'print':openPrint();break;
     case 'printclose':closePrint();break;
@@ -1898,7 +1931,7 @@ document.addEventListener('pointerdown',()=>{if(soundOn())audioUnlock()},{passiv
 document.addEventListener('pointerdown',e=>{
   const t=e.target.closest('[data-lp]');if(!t)return;const bt=e.target.closest('button');if(bt&&bt!==t)return;
   lpStart=[e.clientX,e.clientY];
-  lpTimer=setTimeout(()=>{ui.lpFired=true;const a=t.dataset.lp;const [k2,i2]=a.split(':');if(k2==='foulm'){if(st(i2).fouls>0)undoFoul(i2)}else{if(k2==='resync'){ui.sheet='resync'}else{ui.sheet='menu';ui.sheetId=i2}renderSheet()}if(navigator.vibrate)try{navigator.vibrate(20)}catch(_){}},550);
+  lpTimer=setTimeout(()=>{ui.lpFired=true;const a=t.dataset.lp;const [k2,i2]=a.split(':');if(k2==='foulm'){if(st(i2).fouls>0)undoFoul(i2)}else if(k2==='tfm'){if(tfThem()>0)addTeamFoulThem(-1)}else{if(k2==='resync'){ui.sheet='resync'}else{ui.sheet='menu';ui.sheetId=i2}renderSheet()}if(navigator.vibrate)try{navigator.vibrate(20)}catch(_){}},550);
 });
 const lpCancel=e=>{clearTimeout(lpTimer);lpTimer=null;if(ui.lpFired){ui.lpFired=false;ui.lpUp=Date.now()}};
 document.addEventListener('pointerup',lpCancel);document.addEventListener('pointercancel',lpCancel);

diff --git a/guide.html b/guide.html
@@ -63,7 +63,7 @@ footer{margin-top:56px;padding-top:20px;border-top:1px solid var(--line);color:v
   <div class="top"><img src="icon-192.png" alt=""><h1>Rotation Station</h1></div>
   <p class="lede">A free phone app for youth basketball coaches. It plans who plays when, so every player gets fair minutes, tells you when to sub, and keeps the score and fouls during the game.</p>
   <div class="row"><a class="btn pri" href="./">Open the app</a></div>
-  <p class="muted">This guide is for version 2.18.1 · 2026-10-24.</p>
+  <p class="muted">This guide is for version 2.19.0 · 2026-10-25.</p>
   <ul class="toc" aria-label="Contents">
     <li><a href="#install">Install</a></li>
     <li><a href="#first">First time</a></li>
@@ -127,13 +127,14 @@ footer{margin-top:56px;padding-top:20px;border-top:1px solid var(--line);color:v
   <li><b>BH</b>: ball-handler. The plan keeps at least one on court.</li>
 </ul>
 <h3>3. Game length</h3>
-<p>The defaults are 4 × 8-minute quarters with changes every 4 minutes, following Basketball NI / FIBA youth rules. Check your own league’s rules and change them under <b>Game &amp; minutes</b> if they differ.</p>
+<p>The defaults are 4 × 8-minute quarters with changes every 4 minutes, as in most FIBA youth leagues. Check your own league’s rules and change them under <b>Game &amp; minutes</b> if they differ.</p>
 <p class="muted">The other sections (Who’s on court, Subs &amp; closers, Hot &amp; cold, Alerts) are fine as they are to start with. Each one explains itself when you open it.</p>
 
 <h2 id="gameday">Game day: before tip-off</h2>
 <ol>
   <li>Tap <b>⚡ Game-day setup</b> at the top of the Setup tab.</li>
   <li>Mark anyone missing as <b>Out</b> and check your five starters. Out is for one game only. The player stays in your squad.</li>
+  <li>Squad bigger than the match-day limit (12 by default, set under <b>Squad &amp; tiers</b>)? The list shows how many you’ve picked, for example “12 of 14 picked”, and warns while there are too many. Players you mark Out show as <b>Not picked</b>. Tap that to switch to <b>Not here</b> if they’re actually away. “Sat out 2” next to a name counts this season’s games they weren’t picked, so you can rotate it fairly. The season table shows <b>NP</b> for those games.</li>
   <li>Type the opponent’s name and pick <b>Game</b> or <b>Practice</b>. Practice games aren’t saved to the season.</li>
 </ol>
 <div class="shot">
@@ -161,6 +162,7 @@ footer{margin-top:56px;padding-top:20px;border-top:1px solid var(--line);color:v
 <ul>
   <li>Tap the score bar to add points for either team.</li>
   <li>Tap <b>F</b> on a player to add a foul. Hold <b>F</b> to take one off. The app warns you when a player is on 4 fouls and suggests who to bring on.</li>
+  <li>Tap <b>Their foul</b> each time the other team fouls. Hold it to take one off. From their 5th team foul in a quarter you’re shooting free throws, and the app tells you to attack the rim.</li>
   <li>Tap <b>⏱ Timeout</b> to log one. If the other team goes on a run, the app suggests a timeout at the next dead ball.</li>
   <li>Made a mistake? <b>↩ Undo</b> at the bottom of the screen.</li>
 </ul>
@@ -176,7 +178,7 @@ footer{margin-top:56px;padding-top:20px;border-top:1px solid var(--line);color:v
   <figure><img src="shots/glance.png" width="390" height="760" loading="lazy" alt="Glance mode: a big clock, the next change in large text, score buttons and a foul button for each player on court"><figcaption>Glance mode</figcaption></figure>
   <div>
     <h3>Glance mode</h3>
-    <p>Tap <b>👁 Glance mode</b> for one big screen with just the clock, the next change, score buttons and fouls. It’s made for reading at arm’s length on the bench. Tap <b>✕ Full view</b> to go back.</p>
+    <p>Tap <b>👁 Glance mode</b> for one big screen with just the clock, the next change, score buttons and fouls (yours and theirs). It’s made for reading at arm’s length on the bench. The <b>⏱ Timeout</b>, <b>⚙ Resync</b> and <b>⏩ Break</b> buttons are there too, and you can hold the clock to resync it. Tap <b>✕ Full view</b> to go back.</p>
     <h3 id="closers">Closers</h3>
     <p>In the last 4 minutes of the game, your five closers (<b>C</b>) are on and routine subs stop. The app still tells you if you need to cover a foul-out or injury. You can change this under <b>Subs &amp; closers</b>.</p>
     <h3>Quarter breaks</h3>
@@ -240,6 +242,10 @@ footer{margin-top:56px;padding-top:20px;border-top:1px solid var(--line);color:v
   <p>On the old phone, copy your setup (<b>Setup → Share &amp; devices</b>) and your season backup (<b>Logs</b>). Install the app on the new phone, then paste the setup and restore the backup.</p>
 </details>
 <details>
+  <summary>I have more players than can play</summary>
+  <p>Set <b>Match-day limit</b> under Setup → Squad &amp; tiers (Off, 10, 12 or 15). On game day, mark the players who sit out as Out. They’re recorded as <b>Not picked</b>, not absent, and the WhatsApp summary lists them. The app counts who has sat out and how often, but you always choose.</p>
+</details>
+<details>
   <summary>A player is missing for a game, or has left the team</summary>
   <p>Missing for one game: mark them <b>Out</b> in Game-day setup. Left the team: tap <b>✕</b> next to their name in Setup. Their minutes from past games stay in the season table.</p>
 </details>
@@ -249,7 +255,7 @@ footer{margin-top:56px;padding-top:20px;border-top:1px solid var(--line);color:v
 </details>
 <details>
   <summary>Does it follow my league’s rules?</summary>
-  <p>The defaults follow Basketball NI / FIBA youth play (4 × 8-minute quarters, 4-minute overtime). You can change the quarter length, overtime and minutes for each tier in Setup. Always check your own league’s rules.</p>
+  <p>The defaults follow common FIBA youth play (4 × 8-minute quarters, 4-minute overtime). You can change the quarter length, overtime and minutes for each tier in Setup. Always check your own league’s rules.</p>
 </details>
 
 <h2 id="privacy">Privacy</h2>
@@ -258,7 +264,7 @@ footer{margin-top:56px;padding-top:20px;border-top:1px solid var(--line);color:v
 
 <footer>
   <p>Free to use. If it helps your team, you can <a href="https://ko-fi.com/rotationstation" target="_blank" rel="noopener">Buy me a coffee</a>.</p>
-  <p>Rotation Station 2.18.1 · 2026-10-24 · free software under the MIT licence · <a href="./">Open the app</a></p>
+  <p>Rotation Station 2.19.0 · 2026-10-25 · free software under the MIT licence · <a href="./">Open the app</a></p>
 </footer>
 
 </div>

diff --git a/sw.js b/sw.js
@@ -1,5 +1,5 @@
-// Rotation Station service worker — 2.18.1 · 2026-10-24
-const CACHE = 'rotation-2.18.1-2026-10-24';
+// Rotation Station service worker — 2.19.0 · 2026-10-25
+const CACHE = 'rotation-2.19.0-2026-10-25';
 const CORE = ["./","./index.html","./manifest.webmanifest","./icon-180.png","./icon-192.png","./icon-512.png","./guide.html","./shots/glance.png","./shots/live.png","./shots/logs.png","./shots/plan.png","./shots/setup.png","./shots/share.png"];
 self.addEventListener('install', e => {
   e.waitUntil(caches.open(CACHE).then(c => c.addAll(CORE)).then(() => self.skipWaiting()));

diff --git a/README.md b/README.md
@@ -20,4 +20,4 @@ Free to use. If it helps your team, you can [Buy me a coffee](https://ko-fi.com/
 ## Licence
 MIT. See LICENSE.
 
-<sub>Version 2.18.1 · 2026-10-24. This repository holds the built app only.</sub>
+<sub>Version 2.19.0 · 2026-10-25. This repository holds the built app only.</sub>
